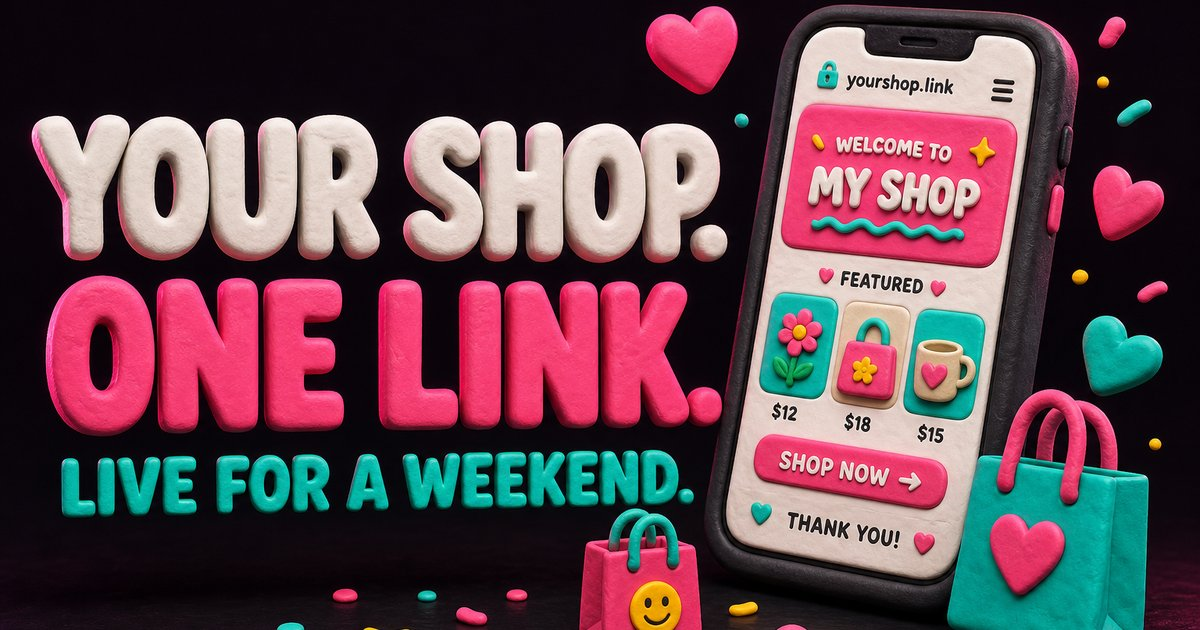
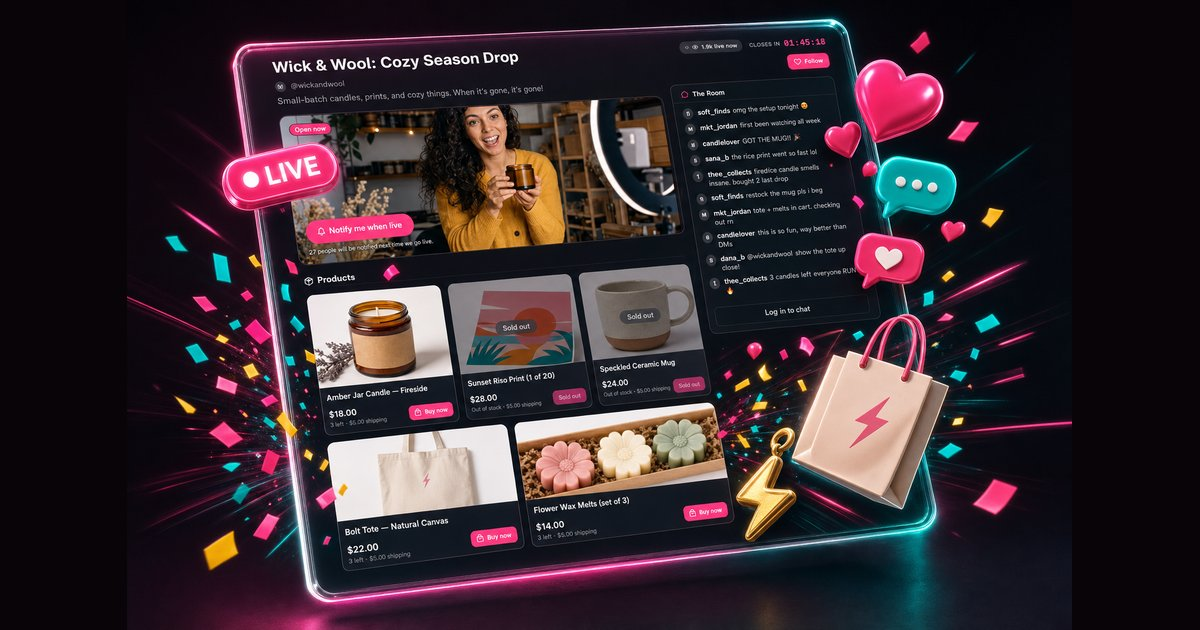
Use the app-experience shot for link previews (OG image)
- public/og.jpg is now the realistic staged-shop marketing graphic (letterboxed
  to 1200x630 on the brand dark background so the full UI stays visible)
- OG/Twitter metadata points at /og.jpg?v=2 to bust scraper caches
- docs/MARKETING.md notes the versioning convention

diff --git a/src/app/layout.tsx b/src/app/layout.tsx
@@ -31,13 +31,15 @@ export const metadata: Metadata = {
     description:
       "Everything you need to run a timed pop-up shop, in one link.",
     type: "website",
-    images: [{ url: "/og.jpg", width: 1200, height: 630, alt: "PopUp — your shop, one link." }],
+    // ?v= busts scraper caches (FB/X/iMessage cache by exact URL) when the
+    // artwork changes. Bump it whenever og.jpg is replaced.
+    images: [{ url: "/og.jpg?v=2", width: 1200, height: 630, alt: "PopUp — your shop, one link." }],
   },
   twitter: {
     card: "summary_large_image",
     title: "PopUp: Pop up. Sell out.",
     description: "Everything you need to run a timed pop-up shop, in one link.",
-    images: ["/og.jpg"],
+    images: ["/og.jpg?v=2"],
   },
 };
 

diff --git a/docs/MARKETING.md b/docs/MARKETING.md
@@ -120,7 +120,7 @@ Goal: let proof recruit the next cohort.
 | `marketing/assets/ig_launch_post.webp` | Square claymation launch/announcement post |
 | `marketing/assets/story_founding_seller.webp` | 1080x1920 claymation story for founding-seller recruitment |
 | `marketing/assets/og_banner.webp` | Wide claymation banner (X header, YouTube, deck cover) |
-| `public/og.jpg` | Automatic link-preview card on every shared URL |
+| `public/og.jpg` | Automatic link-preview card on every shared URL (uses the app-experience shot; bump the `?v=` in `layout.tsx` when replacing) |
 
 The product shots were made by staging a real shop locally (seeded products,
 sold-out items, live chat, streaming cover), screenshotting the actual UI, and